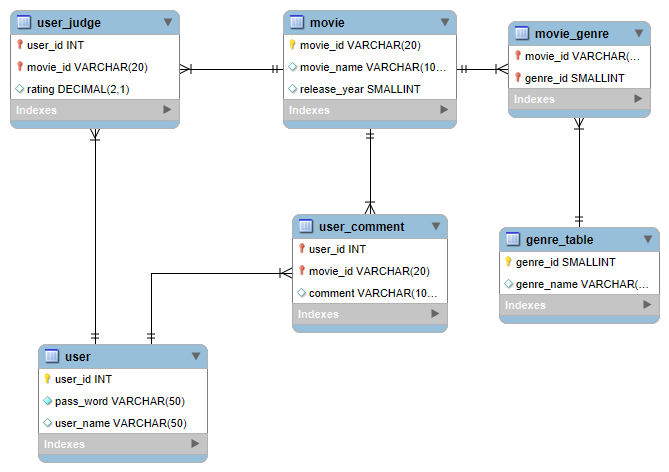
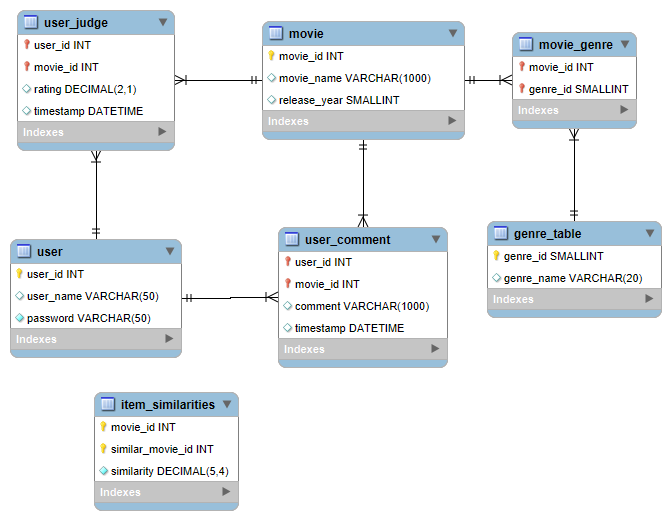
针对现在数据库的文档更新

diff --git a/databasepart/back_end.py b/databasepart/back_end.py
@@ -239,7 +239,7 @@ def judge():
                 'success': True,
                 'message': '成功评分！！！',
             }), 201
-    except Exception:
+    except Exception as e:
         return jsonify({'success': False, 'message': "系统错误"}), 500
 
 if __name__ == '__main__':
